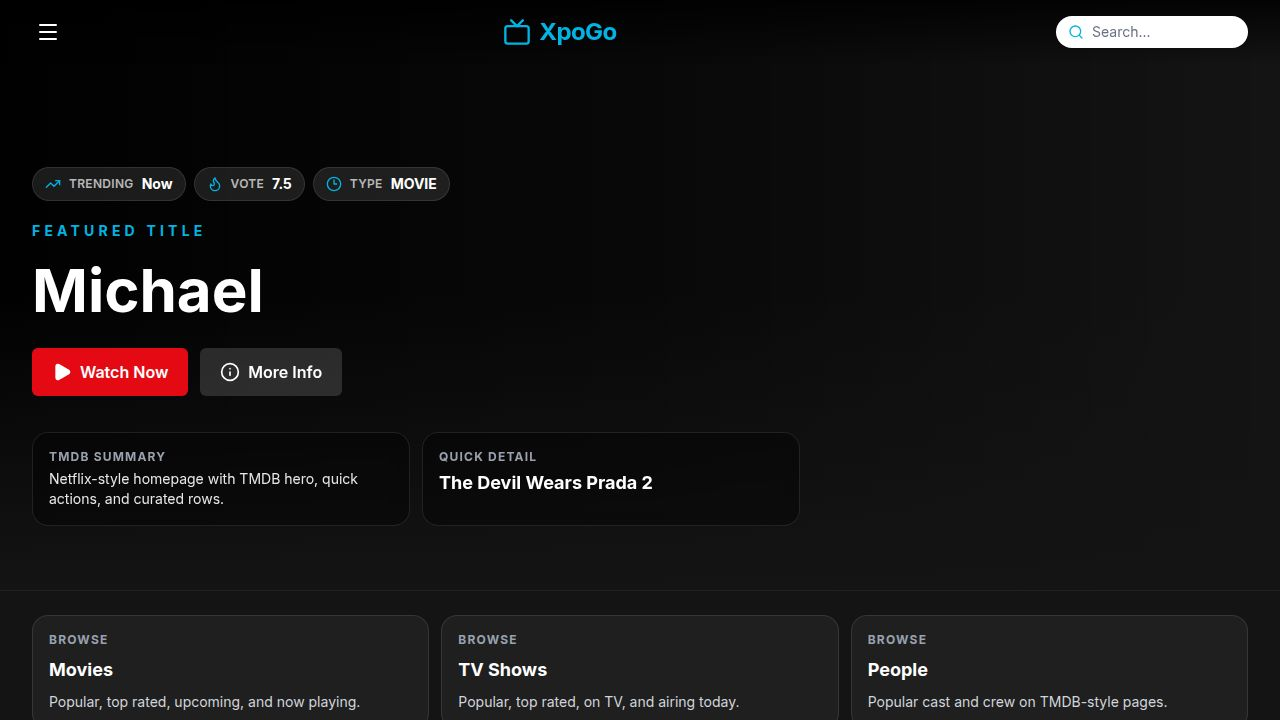
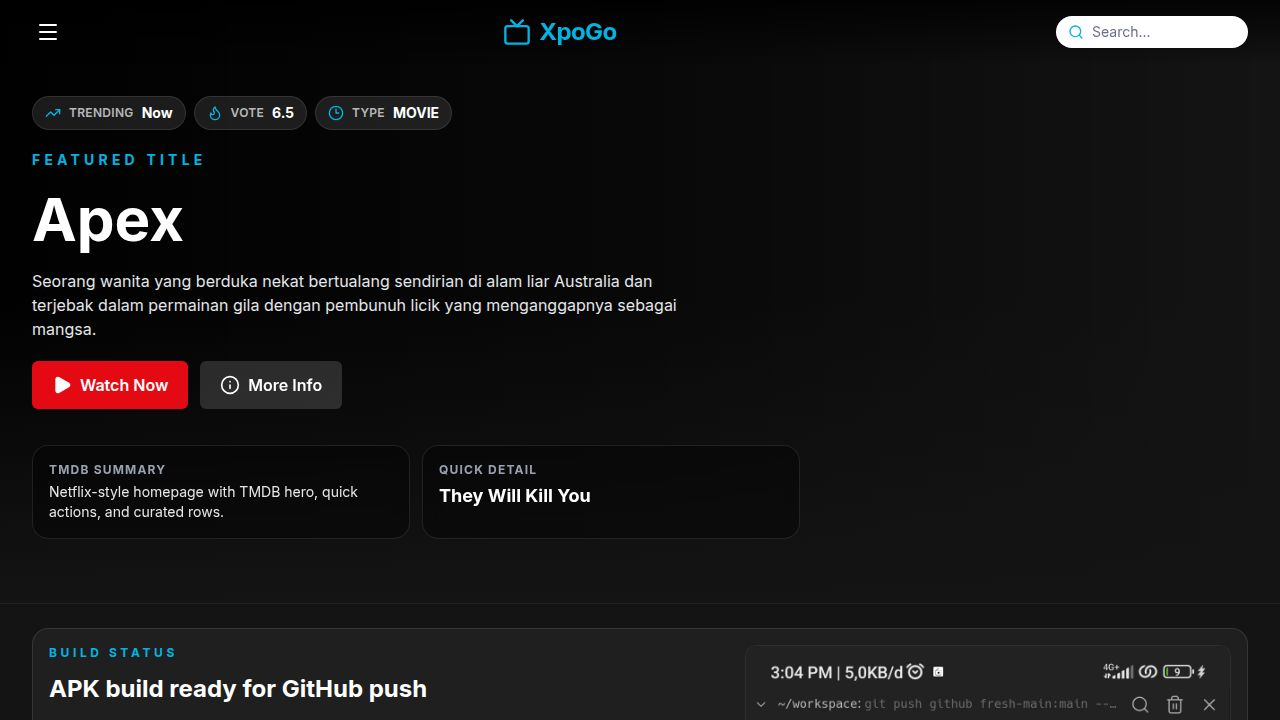
Update web and app domains to the correct Firebase hosting addresses
Modify environment variables and configuration files to reflect the correct Firebase hosting domain (apps-tmdb.web.app) across the application, including share sheet, build configurations, and admin panel information.

Replit-Commit-Author: Agent
Replit-Commit-Session-Id: b75f8c33-a81a-491a-9788-179d82ad5f55
Replit-Commit-Checkpoint-Type: full_checkpoint
Replit-Commit-Event-Id: 1f4853ba-17a4-4d92-bca6-f3382cb3fb9a
Replit-Commit-Screenshot-Url: https://storage.googleapis.com/screenshot-production-us-central1/b30fc0f2-ea8a-424a-88ee-fa02e53bd00a/b75f8c33-a81a-491a-9788-179d82ad5f55/ToCqUo6
Replit-Helium-Checkpoint-Created: true

diff --git a/artifacts/xpogo/src/pages/admin.tsx b/artifacts/xpogo/src/pages/admin.tsx
@@ -974,7 +974,7 @@ function BuildTab() {
       <div className="bg-yellow-400/10 border border-yellow-400/20 rounded-xl p-4">
         <p className="text-yellow-400 text-xs font-bold uppercase tracking-widest mb-1">Info Penting</p>
         <p className="text-yellow-200/80 text-sm leading-relaxed">
-          APK sudah tersinkron dengan web hosting <span className="font-bold text-yellow-400">xpogo.web.app</span> (repo TMDB_CLONE).
+          APK sudah tersinkron dengan web hosting <span className="font-bold text-yellow-400">apps-tmdb.web.app</span> (repo TMDB_CLONE).
           Build profile: <span className="font-bold text-yellow-400">preview</span> → output berupa file <span className="font-bold text-yellow-400">.apk</span> yang bisa langsung diinstall.
         </p>
       </div>
@@ -1024,7 +1024,7 @@ function BuildTab() {
             ["Package", "com.xpogo.streaming"],
             ["Profile", "preview"],
             ["Output", "APK (.apk)"],
-            ["Web Domain", "xpogo.web.app"],
+            ["Web Domain", "apps-tmdb.web.app"],
           ].map(([k, v]) => (
             <div key={k}>
               <span className="text-gray-500">{k}: </span>

diff --git a/artifacts/xpogo-mobile/components/ShareSheet.tsx b/artifacts/xpogo-mobile/components/ShareSheet.tsx
@@ -13,7 +13,7 @@ const CARD_BG = "#1a2332";
 const GREEN = "#00c853";
 const GRAY = "#8a9bb0";
 
-const WEB_DOMAIN = process.env.EXPO_PUBLIC_WEB_DOMAIN || "xpogo.web.app";
+const WEB_DOMAIN = process.env.EXPO_PUBLIC_WEB_DOMAIN || "apps-tmdb.web.app";
 
 interface Props {
   visible: boolean;